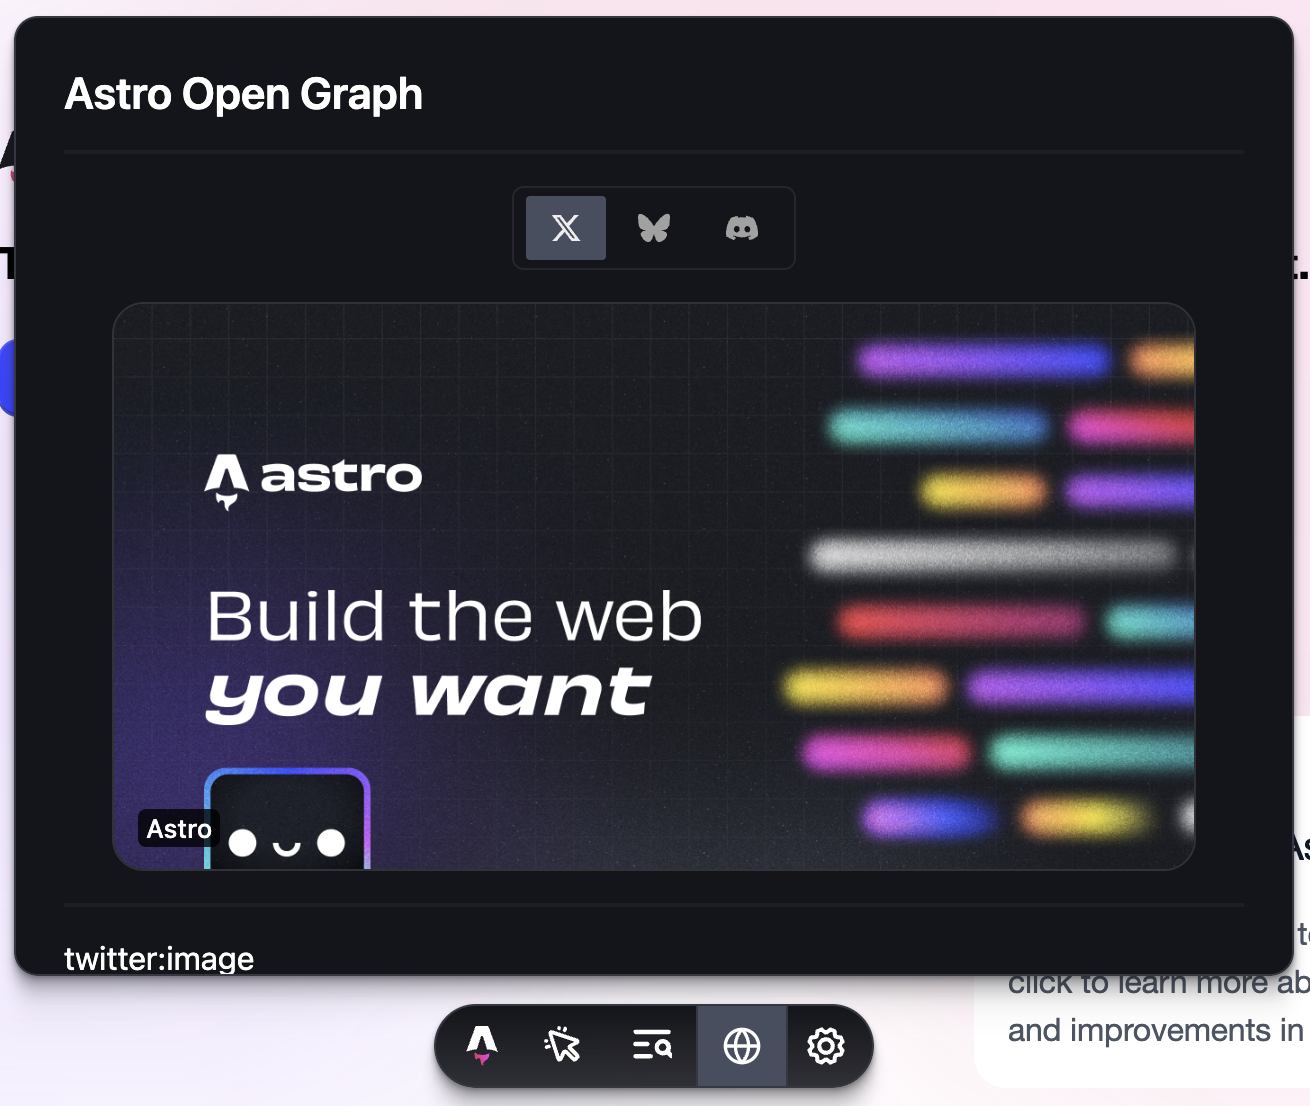
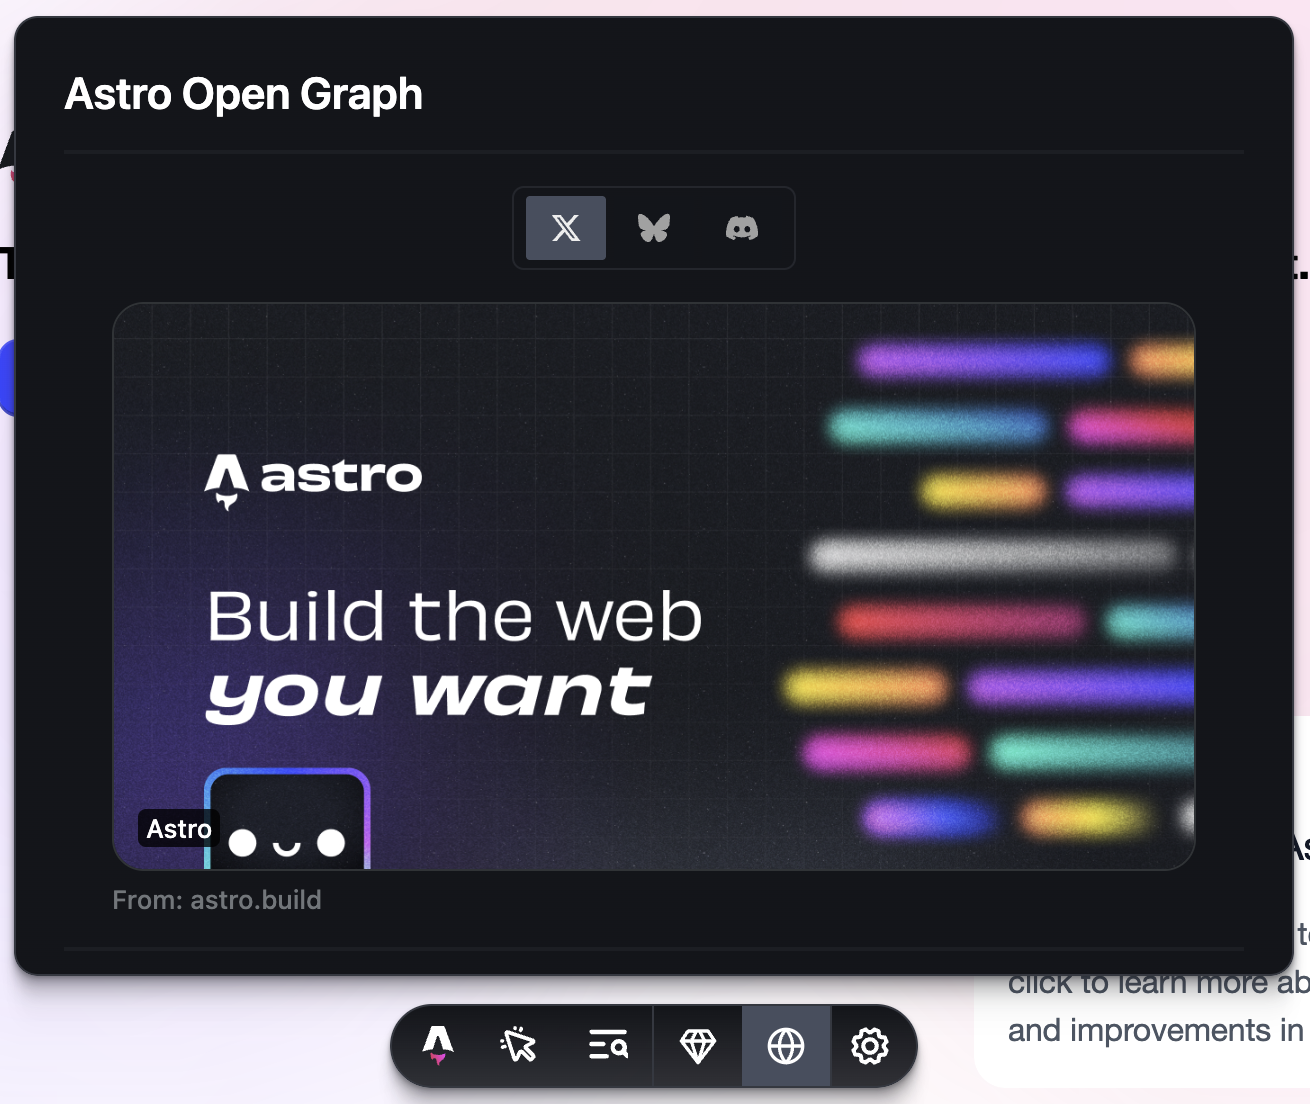
Display the From section for X preview (#14)
* Display the From section for X preview

* Create serious-ducks-cross.md

diff --git a/packages/astro-og/src/components/x/preview-summary-large-image.tsx b/packages/astro-og/src/components/x/preview-summary-large-image.tsx
@@ -3,74 +3,90 @@
 interface PreviewSummaryLargeImageProps {
 	image: string;
 	title?: string;
+	hostname: string;
 }
 
 export function PreviewSummaryLargeImage({
 	image,
 	title,
+	hostname,
 }: PreviewSummaryLargeImageProps) {
 	return (
-		<div
-			id="panel-X"
-			role="tabpanel"
-			aria-labelledby="tab-X"
-			style={{
-				background: "#13151a",
-				border: "1px solid #2f3336",
-				borderRadius: "16px",
-				overflow: "hidden",
-				position: "relative",
-			}}
-		>
+		<>
 			<div
+				id="panel-X"
+				role="tabpanel"
+				aria-labelledby="tab-X"
 				style={{
-					display: "flex",
-					flexDirection: "column",
+					background: "#13151a",
+					border: "1px solid #2f3336",
+					borderRadius: "16px",
+					overflow: "hidden",
+					position: "relative",
 				}}
 			>
-				<img
-					src={image}
-					alt=""
-					style={{
-						aspectRatio: "1.91",
-						height: "auto",
-						maxHeight: "310px",
-						objectFit: "cover",
-					}}
-				/>
 				<div
 					style={{
-						border: "0",
-						position: "absolute",
-						bottom: "12px",
-						left: "12px",
-						right: "12px",
-						fontFamily:
-							"-apple-system,BlinkMacSystemFont,Segoe UI,Roboto,Helvetica,Arial,sans-serif",
+						display: "flex",
+						flexDirection: "column",
 					}}
 				>
-					<span
+					<img
+						src={image}
+						alt=""
 						style={{
-							backgroundColor: "rgba(0,0,0,.77)",
-							borderRadius: "4px",
-							color: "#fff",
-							fontSize: "13px",
-							fontWeight: "500",
-							height: "20px",
-							lineHeight: "16px",
-							maxWidth: "100%",
-							overflow: "hidden",
-							padding: "2px 4px",
-							textOverflow: "ellipsis",
-							userSelect: "none",
-							whiteSpace: "nowrap",
-							width: "fit-content",
+							aspectRatio: "1.91",
+							height: "auto",
+							maxHeight: "310px",
+							objectFit: "cover",
+						}}
+					/>
+					<div
+						style={{
+							border: "0",
+							position: "absolute",
+							bottom: "12px",
+							left: "12px",
+							right: "12px",
+							fontFamily:
+								"-apple-system,BlinkMacSystemFont,Segoe UI,Roboto,Helvetica,Arial,sans-serif",
 						}}
 					>
-						{title ?? "Title not provided"}
-					</span>
+						<span
+							style={{
+								backgroundColor: "rgba(0,0,0,.77)",
+								borderRadius: "4px",
+								color: "#fff",
+								fontSize: "13px",
+								fontWeight: "500",
+								height: "20px",
+								lineHeight: "16px",
+								maxWidth: "100%",
+								overflow: "hidden",
+								padding: "2px 4px",
+								textOverflow: "ellipsis",
+								userSelect: "none",
+								whiteSpace: "nowrap",
+								width: "fit-content",
+							}}
+						>
+							{title ?? "Title not provided"}
+						</span>
+					</div>
 				</div>
 			</div>
-		</div>
+			<span
+				style={{
+					display: "block",
+					color: "#71767b",
+					fontSize: "13px",
+					fontWeight: "500",
+					lineHeight: "16px",
+					marginTop: "6px",
+				}}
+			>
+				From: {hostname}
+			</span>
+		</>
 	);
 }

diff --git a/packages/astro-og/src/components/x/x-preview.tsx b/packages/astro-og/src/components/x/x-preview.tsx
@@ -1,3 +1,4 @@
+import { getHostname } from "../../utils";
 import { PreviewContainer } from "../preview-container";
 import { NoPreview } from "./no-preview";
 import { PreviewSummary } from "./preview-summary";
@@ -15,15 +16,27 @@ export function XPreview({
 		props["twitter:description"] ??
 		props["og:description"] ??
 		props.description;
+	const url = props["og:url"];
+
+	const hostname = getHostname(url ?? "");
 
 	return (
 		<PreviewContainer>
 			{cardType === undefined ? (
 				<NoPreview />
 			) : cardType === "summary" || image === undefined ? (
-				<PreviewSummary image={image} title={title} description={description} />
+				<PreviewSummary
+					image={image}
+					title={title}
+					description={description}
+					hostname={hostname}
+				/>
 			) : (
-				<PreviewSummaryLargeImage image={image} title={title} />
+				<PreviewSummaryLargeImage
+					image={image}
+					title={title}
+					hostname={hostname}
+				/>
 			)}
 		</PreviewContainer>
 	);

diff --git a/packages/astro-og/src/components/bluesky/bluesky-preview.tsx b/packages/astro-og/src/components/bluesky/bluesky-preview.tsx
@@ -1,4 +1,4 @@
-import { isValidUrl } from "../../utils";
+import { getHostname } from "../../utils";
 import { PreviewContainer } from "../preview-container";
 
 interface BlueskyPreviewProps {
@@ -11,7 +11,7 @@ export function BlueskyPreview({ props }: BlueskyPreviewProps) {
 	const description = props["og:description"] ?? props.description;
 	const url = props["og:url"];
 
-	const hostname = isValidUrl(url) ? new URL(url).hostname : location.hostname;
+	const hostname = getHostname(url ?? "");
 
 	return (
 		<PreviewContainer>

diff --git a/packages/astro-og/src/components/x/preview-summary.tsx b/packages/astro-og/src/components/x/preview-summary.tsx
@@ -2,12 +2,14 @@ interface PreviewSummaryProps {
 	image?: string;
 	title?: string;
 	description?: string;
+	hostname: string;
 }
 
 export function PreviewSummary({
 	image,
 	title,
 	description,
+	hostname,
 }: PreviewSummaryProps) {
 	return (
 		<div
@@ -78,7 +80,7 @@ export function PreviewSummary({
 						color: "#71767b",
 					}}
 				>
-					{document.location.host}
+					{hostname}
 				</span>
 				<div style={{ flexShrink: "0" }}>
 					<span

diff --git a/packages/astro-og/src/utils.ts b/packages/astro-og/src/utils.ts
@@ -32,3 +32,7 @@ export function isValidUrl(value?: string): value is string {
 		return false;
 	}
 }
+
+export function getHostname(url: string) {
+	return isValidUrl(url) ? new URL(url).hostname : location.hostname;
+}

diff --git a/.changeset/serious-ducks-cross.md b/.changeset/serious-ducks-cross.md
@@ -1,0 +1,5 @@
+---
+"astro-og": patch
+---
+
+Display the From section for X preview
